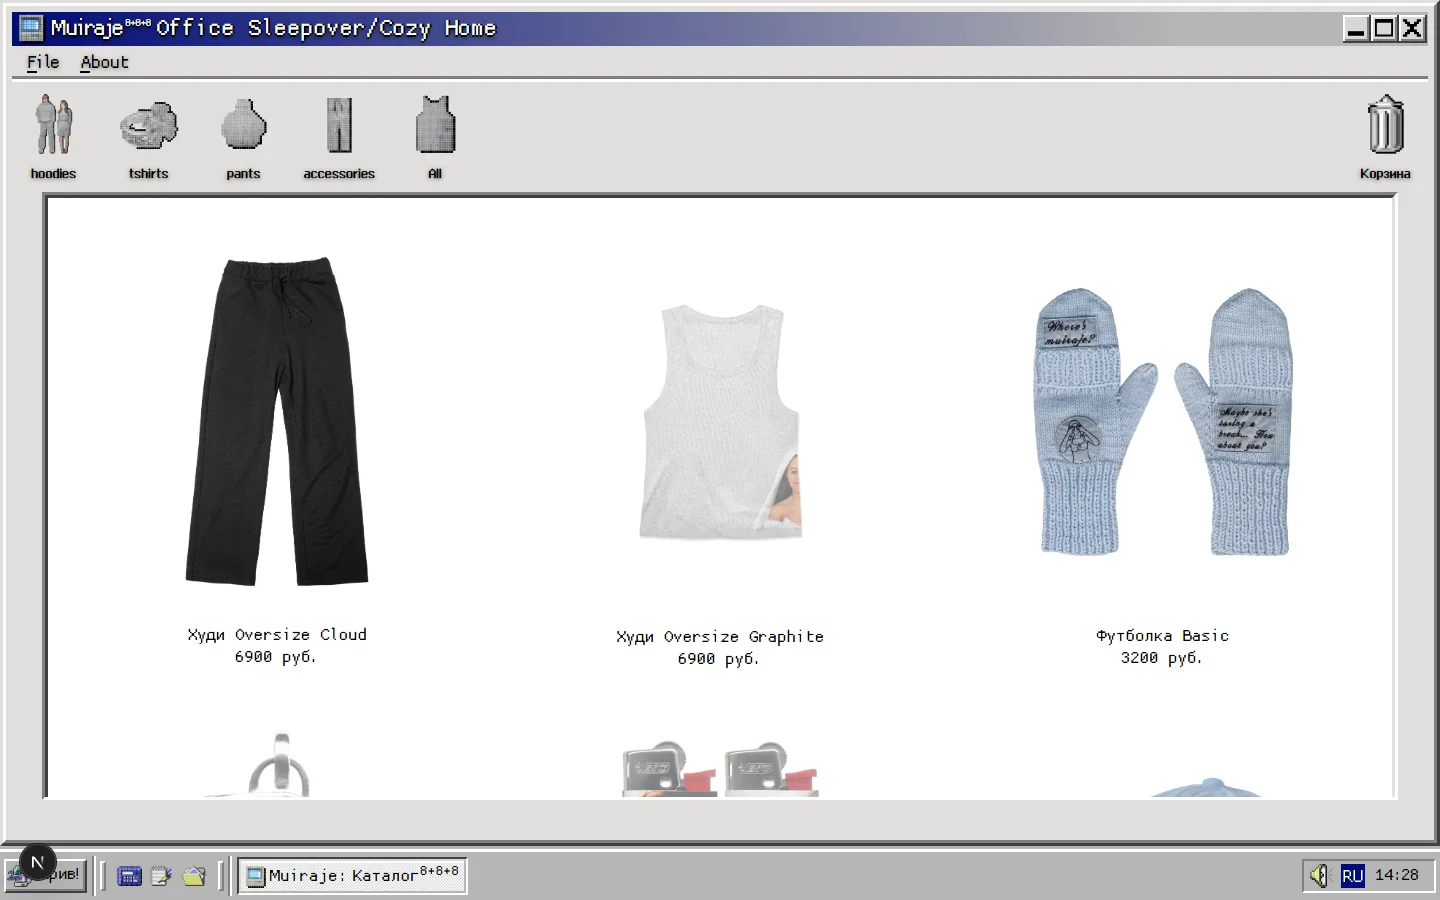
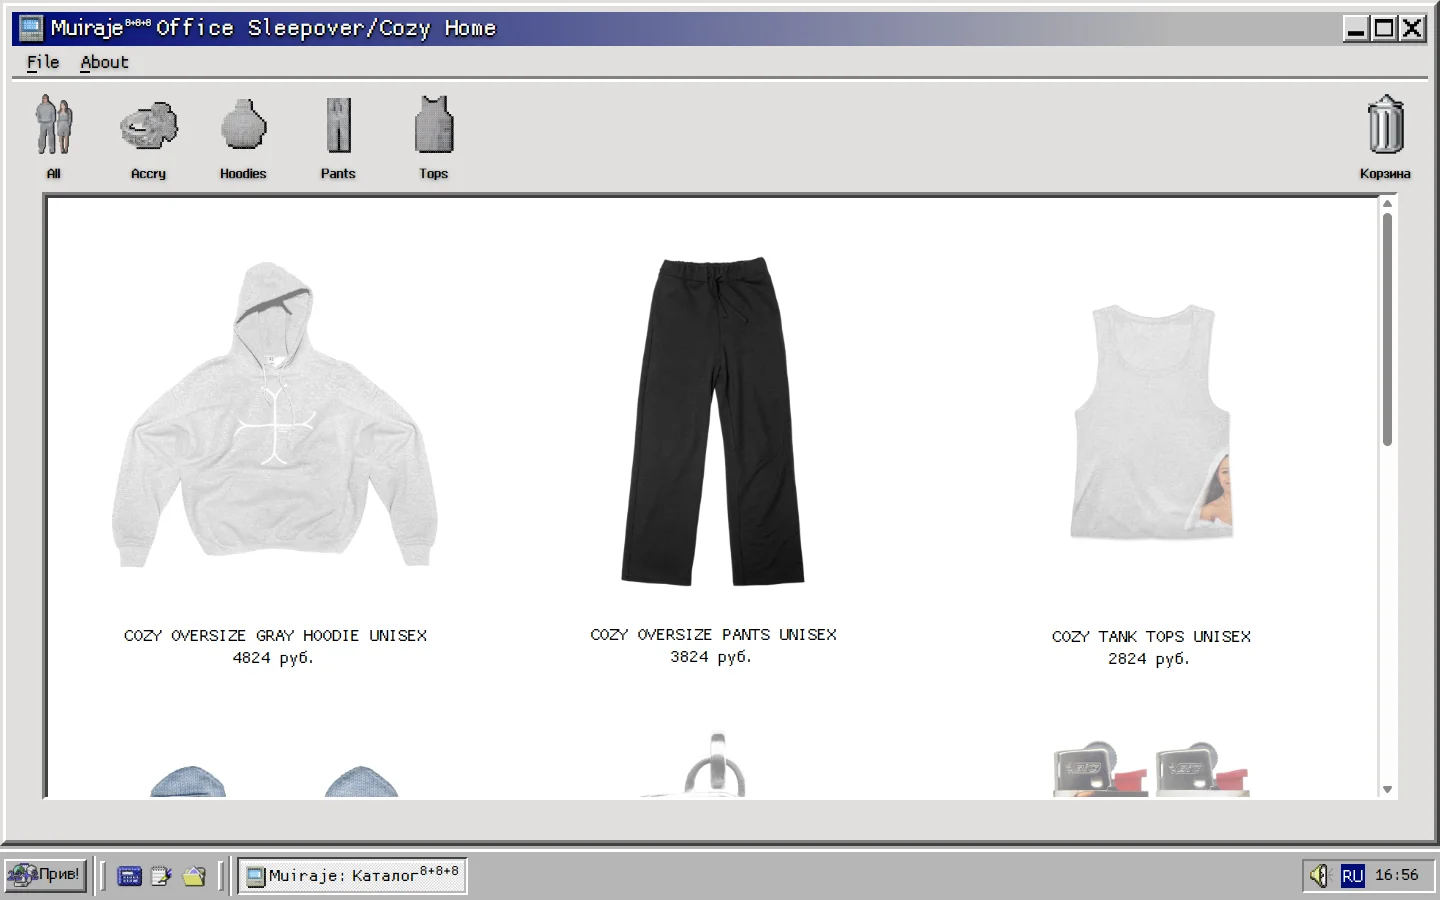
Reshoot Muiraje screenshots from the restored production catalog
The old shots came from a hand-seeded local database and missed the per-variant animated backgrounds on product pages. Recaptured from a local build restored from the production DB backup: product page with its GIF character, catalog, home, Night in the Desert, and a cart with an item instead of the empty state. Gallery notes and the hero frame updated to match.

diff --git a/src/lib/content.ts b/src/lib/content.ts
@@ -106,24 +106,29 @@ export const projects: Project[] = [
     period: "сен 2024 — мар 2025",
     screenshots: [
       {
-        src: "/projects/muiraje-3.webp",
-        alt: "Muiraje: карточка товара в стиле окна Windows",
-        note: "Карточка товара в окне ОС: варианты размера и цвета, у каждого варианта своя картинка.",
-      },
-      {
         src: "/projects/muiraje-1.webp",
-        alt: "Muiraje: главная страница — рабочий стол",
-        note: "Главная — рабочий стол с иконками коллекций; вся вёрстка на SCSS-модулях.",
+        alt: "Muiraje: карточка товара с выбором размера и цвета",
+        note: "Карточка товара в окне ОС: галерея, описание, наличие, размеры и цвета. Фоновая гифка, подпись и её позиция задаются для каждого варианта в админке.",
       },
       {
         src: "/projects/muiraje-2.webp",
         alt: "Muiraje: каталог в виде проводника с папками категорий",
-        note: "Каталог как проводник: категории — папки, товары — файлы.",
+        note: "Каталог как проводник: категории — папки, товары — файлы, внизу панель задач в духе Windows.",
+      },
+      {
+        src: "/projects/muiraje-3.webp",
+        alt: "Muiraje: главная страница — рабочий стол",
+        note: "Главная — «рабочий стол» с коллекциями и разделами; вся вёрстка на SCSS-модулях.",
       },
       {
         src: "/projects/muiraje-4.webp",
         alt: "Muiraje: коллекция Night in the Desert в окне ретро-браузера",
         note: "Отдельная коллекция Night in the Desert со своей структурой каталога — в окне ретро-браузера.",
+      },
+      {
+        src: "/projects/muiraje-5.webp",
+        alt: "Muiraje: корзина с товаром",
+        note: "Корзина: промокод, итог и порог бесплатной доставки; оформленный заказ уходит оператору через Telegram-бота.",
       },
     ],
     featured: true,

diff --git a/src/components/sections/Hero.tsx b/src/components/sections/Hero.tsx
@@ -75,7 +75,7 @@ export default function Hero() {
             className="animate-frame-in w-[88%] [animation-delay:120ms]"
           />
           <WindowFrame
-            src="/projects/muiraje-3.webp"
+            src="/projects/muiraje-1.webp"
             alt=""
             label="Muiraje — карточка товара"
             sizes="(min-width: 1024px) 420px, 70vw"
